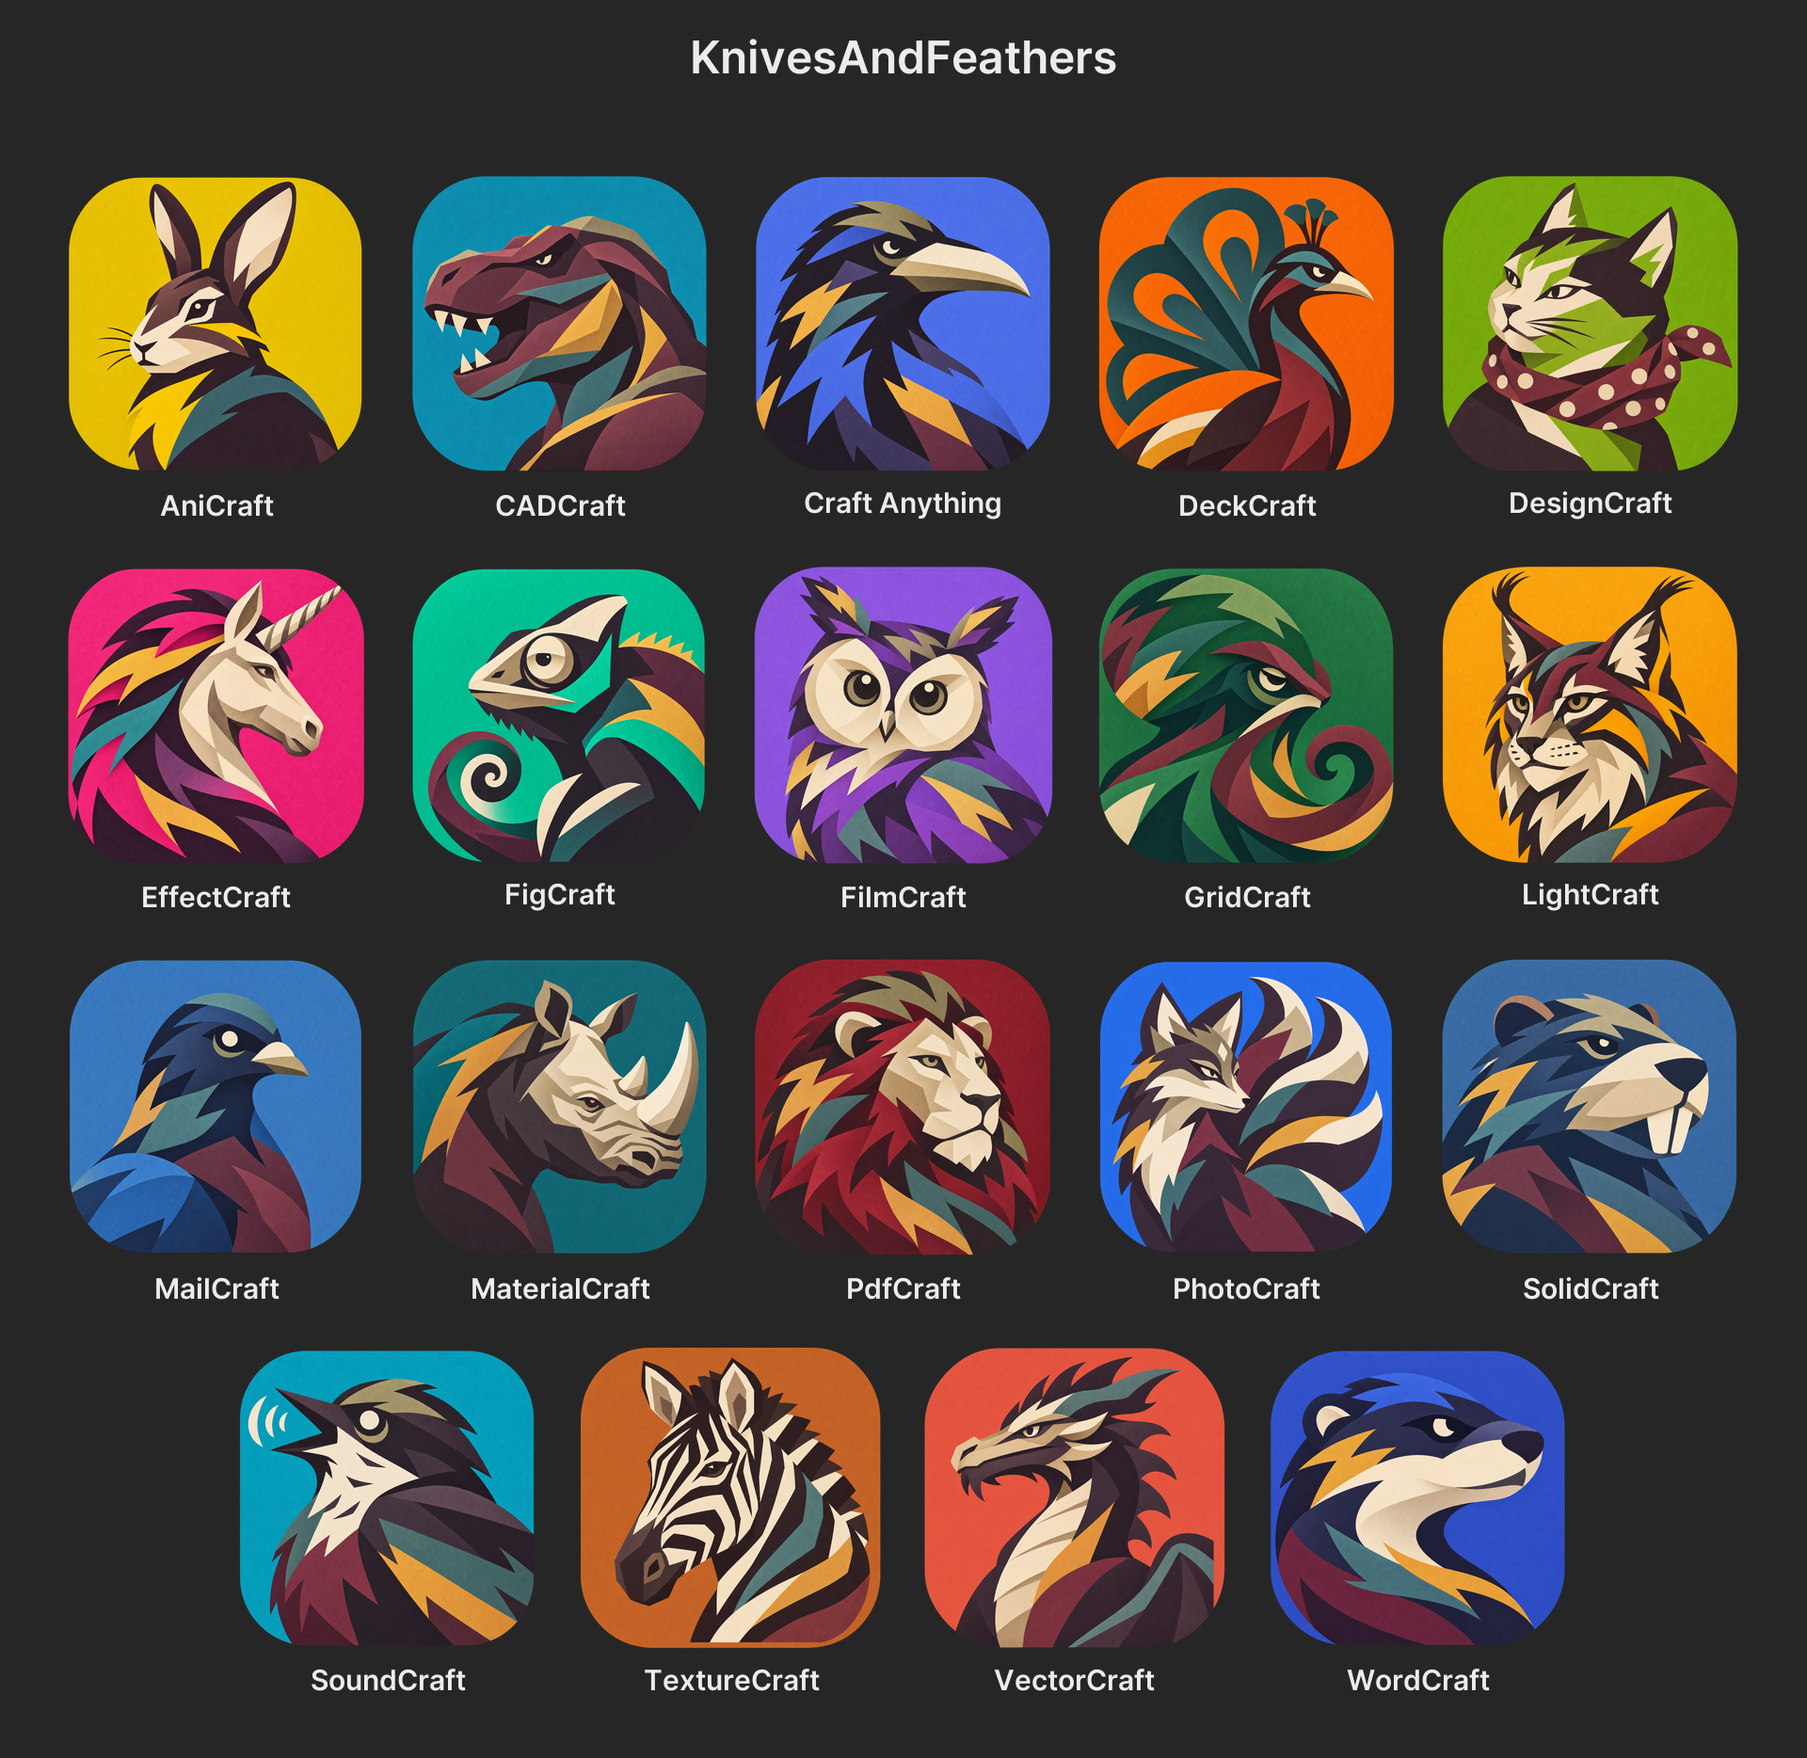
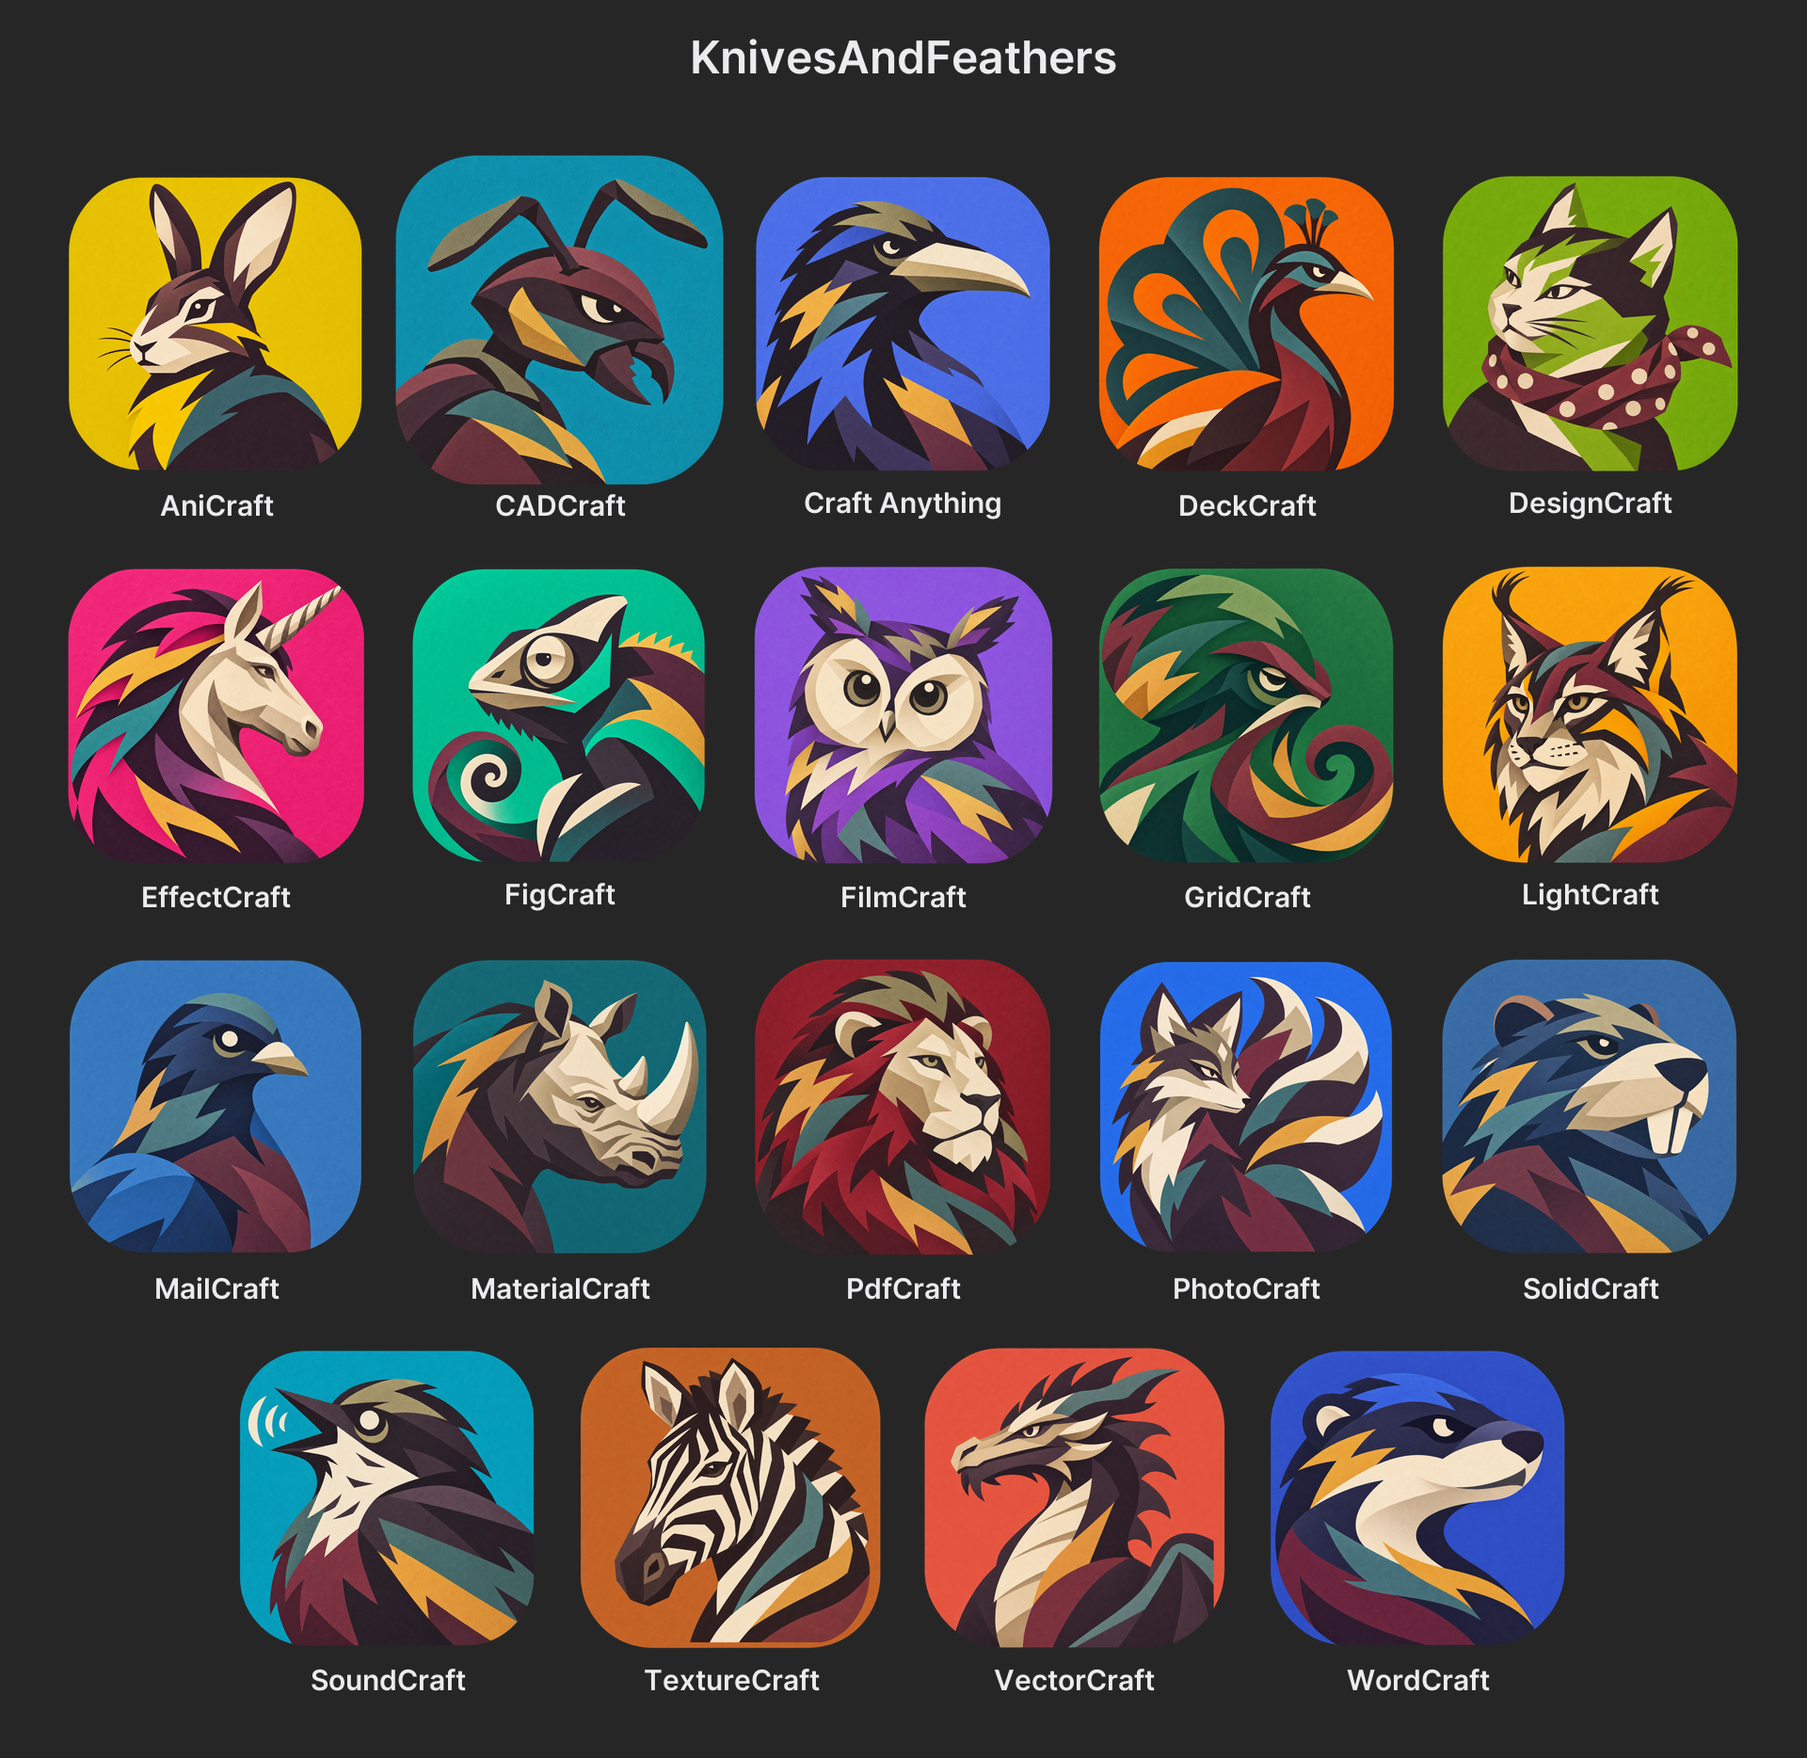
Refresh CADCraft ants and curate seven approved OmegaDarling packs

Changed region(s): [[0.2188, 0.0621, 0.4062, 0.2794]]

diff --git a/Windows/Test-TrayUI.cs b/Windows/Test-TrayUI.cs
@@ -56,7 +56,7 @@ static class TrayTests
         Func<string, object> field = name => typeof(LauncherForm).GetField(name, instance).GetValue(form);
         ComboBox themes = (ComboBox)field("themes"); Catalog catalog = (Catalog)field("catalog");
         Preferences preferences = (Preferences)field("preferences"); PackLibrary library = (PackLibrary)field("library");
-        ThemeEntry basis = themes.Items.Cast<ThemeEntry>().First(theme => theme.Id == "Craft-Icons-Zach/Satin");
+        ThemeEntry basis = themes.Items.Cast<ThemeEntry>().First(theme => theme.Id == "Craft-Icons-Zach/HyGel");
         string previousTheme = preferences.Theme; string[] previousDefaults = preferences.DefaultShortcuts;
         MethodInfo reload = typeof(LauncherForm).GetMethod("ReloadLibrary", instance), change = typeof(LauncherForm).GetMethod("ChangeAppIcon", instance);
         string png = Path.Combine(root, "context-choice.png"), other = Path.Combine(root, "context-other.png");
@@ -408,7 +408,7 @@ static class TrayTests
         ContextMenuStrip menu = (ContextMenuStrip)field("managePackMenu");
         PackLibrary library = (PackLibrary)field("library");
         ThemeEntry[] bundled = (ThemeEntry[])field("bundledThemes");
-        ThemeEntry themed = themes.Items.Cast<ThemeEntry>().First(t => t.Id == "Craft-Icons-Zach/Satin");
+        ThemeEntry themed = themes.Items.Cast<ThemeEntry>().First(t => t.Id == "Craft-Icons-Zach/HyGel");
         string original = Path.Combine(root, "original-red.png"), current = Path.Combine(root, "current-blue.png");
         using (Bitmap image = new Bitmap(32, 32)) {
             using (Graphics canvas = Graphics.FromImage(image)) canvas.Clear(Color.Red);
@@ -505,7 +505,7 @@ static class TrayTests
             }
         }
 
-        Check(json.Deserialize<Preferences>("{\"Theme\":\"Craft-Icons-Zach/Satin\"}").DefaultShortcuts.Length == 0,
+        Check(json.Deserialize<Preferences>("{\"Theme\":\"Craft-Icons-Zach/HyGel\"}").DefaultShortcuts.Length == 0,
             "Older preferences migrate without inventing per-shortcut default overrides");
         call("RememberRestoredShortcuts", new object[] { new[] {
             new ResultItem { Shortcut = photo, Status = "Restored" },
@@ -545,12 +545,12 @@ static class TrayTests
         byte[] originalPhoto = File.ReadAllBytes(photo), originalFilm = File.ReadAllBytes(film);
         FixtureConfig fixture = new FixtureConfig { ShortcutDirectory = new[] { links }, StateDirectory = state, KeepOpenForAutomation = true };
         WorkerClient worker = new WorkerClient(source, fixture);
-        WorkerReply plan = worker.Run(new WorkerRequest { Action = "Preview", Scope = "CurrentUser", Theme = "Craft-Icons-Zach/Satin" }, false).GetAwaiter().GetResult();
-        WorkerReply applied = worker.Run(new WorkerRequest { Action = "Apply", Scope = "CurrentUser", Theme = "Craft-Icons-Zach/Satin", ExpectedPlan = plan.Plan }, false).GetAwaiter().GetResult();
+        WorkerReply plan = worker.Run(new WorkerRequest { Action = "Preview", Scope = "CurrentUser", Theme = "Craft-Icons-Zach/HyGel" }, false).GetAwaiter().GetResult();
+        WorkerReply applied = worker.Run(new WorkerRequest { Action = "Apply", Scope = "CurrentUser", Theme = "Craft-Icons-Zach/HyGel", ExpectedPlan = plan.Plan }, false).GetAwaiter().GetResult();
         Check(applied.Results.Length == 2 && applied.Results.All(result => result.Status == "Applied"), "Context-menu integration prepares two isolated themed shortcuts");
         byte[] themedFilm = File.ReadAllBytes(film);
         string preferencesPath = Path.Combine(state, "tray-preferences.json");
-        File.WriteAllText(preferencesPath, json.Serialize(new Preferences { Theme = "Craft-Icons-Zach/Satin", Scope = "AllUsers", Hotkey = new HotkeySettings { Enabled = false } }));
+        File.WriteAllText(preferencesPath, json.Serialize(new Preferences { Theme = "Craft-Icons-Zach/HyGel", Scope = "AllUsers", Hotkey = new HotkeySettings { Enabled = false } }));
         using (EventWaitHandle show = new EventWaitHandle(false, EventResetMode.AutoReset))
         using (EventWaitHandle stop = new EventWaitHandle(false, EventResetMode.AutoReset))
         using (LauncherForm form = new LauncherForm(source, fixture, true, show, stop))
@@ -660,14 +660,14 @@ static class TrayTests
             File.WriteAllText(Path.Combine(workerState, "manifest.json"), "{\"Product\":\"BetterIcon-Craft Apps Windows\",\"SchemaVersion\":1,\"Version\":\"1.1.0\",\"Scope\":\"CurrentUser\",\"Entries\":[]}");
             WorkerClient client = new WorkerClient(args[1], new FixtureConfig { ShortcutDirectory = new[] { root }, StateDirectory = workerState });
             WorkerReply catalog = client.Run(new WorkerRequest { Action = "Catalog", Scope = "CurrentUser" }, false).GetAwaiter().GetResult();
-            Check(catalog.Success && catalog.Catalog.Themes.Length == 18 && catalog.Catalog.Apps.Length == 1 && catalog.Catalog.Apps[0].Application == "PhotoCraft", "Native process invokes the catalog worker with a real fixture shortcut");
+            Check(catalog.Success && catalog.Catalog.Themes.Length == 13 && catalog.Catalog.Apps.Length == 1 && catalog.Catalog.Apps[0].Application == "PhotoCraft", "Native process invokes the catalog worker with a real fixture shortcut");
             WorkerReply preview = client.Run(new WorkerRequest { Action = "RestorePreview", Scope = "CurrentUser" }, false).GetAwaiter().GetResult();
             Check(preview.Success && preview.StateHash.Length == 64 && preview.Results.Length == 0, "Native restore worker hashes an existing manifest with inherited module paths");
             PackTests.Run(root, args[1], catalog.Catalog, Check);
 
             string state = Path.Combine(root, "state"), preferencesPath = Path.Combine(state, "tray-preferences.json");
             Directory.CreateDirectory(state);
-            File.WriteAllText(preferencesPath, json.Serialize(new Preferences { Theme = "Craft-Icons-Zach/Satin", Scope = "CurrentUser", IconSize = 72, Hotkey = new HotkeySettings { Enabled = false } }));
+            File.WriteAllText(preferencesPath, json.Serialize(new Preferences { Theme = "Craft-Icons-Zach/HyGel", Scope = "CurrentUser", IconSize = 72, Hotkey = new HotkeySettings { Enabled = false } }));
             using (EventWaitHandle show = new EventWaitHandle(false, EventResetMode.AutoReset))
             using (EventWaitHandle stop = new EventWaitHandle(false, EventResetMode.AutoReset))
             using (LauncherForm form = new LauncherForm(args[1], new FixtureConfig { ShortcutDirectory = new[] { root }, StateDirectory = Path.Combine(root, "state"), KeepOpenForAutomation = true }, true, show, stop))
@@ -762,7 +762,7 @@ static class TrayTests
                         pages.SelectedIndex = 1; slider.Value = 64;
                         Check(list.Items.Count == 2 && list.AccessibleDescription.Contains("Filter: f.") && list.SelectedItems.Count == 1 && list.SelectedItems[0].Text == "FilmCraft", "Icon resizing preserves the active filter and selected app");
                         Preferences sized = json.Deserialize<Preferences>(File.ReadAllText(preferencesPath));
-                        Check(sized.IconSize == 64 && sized.Theme == "Craft-Icons-Zach/Satin" && sized.Scope == "CurrentUser" && !sized.Hotkey.Enabled, "Icon size persists without changing theme, scope, or hotkey preferences");
+                        Check(sized.IconSize == 64 && sized.Theme == "Craft-Icons-Zach/HyGel" && sized.Scope == "CurrentUser" && !sized.Hotkey.Enabled, "Icon size persists without changing theme, scope, or hotkey preferences");
                         ((Button)typeof(LauncherForm).GetField("resetIconSize", BindingFlags.Instance | BindingFlags.NonPublic).GetValue(form)).PerformClick();
                         Check(launcherImages.ImageSize == new Size(48, 48) && previewImages.ImageSize == launcherImages.ImageSize && list.Items[1].Bounds.Left - list.Items[0].Bounds.Left < 200 && json.Deserialize<Preferences>(File.ReadAllText(preferencesPath)).IconSize == 48, "Reset restores and saves compact 48-pixel icons in both grids");
                         pages.SelectedIndex = 0;

diff --git a/Windows/Test-Packs.cs b/Windows/Test-Packs.cs
@@ -17,8 +17,8 @@ static class PackTests
         string state = Path.Combine(root, "pack-tests-state"); Directory.CreateDirectory(state);
         PackLibrary library = new PackLibrary(Path.Combine(state, "packs"));
         ThemeEntry[] omega = catalog.Themes.Where(t => t.Pack == "Craft-Icons-Zach").ToArray();
-        check(omega.Length == 12 && omega.All(t => t.Author == "OmegaDarling" && t.ToString().Contains("OmegaDarling") && t.Id.StartsWith("Craft-Icons-Zach/")), "OmegaDarling credits are public while existing pack IDs stay stable");
-        check(catalog.Themes.Length == 18 && catalog.Themes.Sum(t => t.IconCount) == 313 && !catalog.Themes.Any(t => t.Name == "OilSlick"), "Oil Slick is retired from the 18-theme, 313-icon catalog");
+        check(omega.Length == 7 && omega.All(t => t.Author == "OmegaDarling" && t.ToString().Contains("OmegaDarling") && t.Id.StartsWith("Craft-Icons-Zach/")), "OmegaDarling credits are public while existing pack IDs stay stable");
+        check(catalog.Themes.Length == 13 && catalog.Themes.Sum(t => t.IconCount) == 218 && !catalog.Themes.Any(t => new[] { "OilSlick", "Satin", "Cardstock", "Paperflow", "Softform", "Counterform" }.Contains(t.Name)), "The 13-theme, 218-icon catalog excludes all six retired OmegaDarling styles");
         check(catalog.Themes.SelectMany(t => t.Icons).All(icon => !String.IsNullOrEmpty(icon.PreviewPath) && Path.GetExtension(icon.PreviewPath).Equals(".png", StringComparison.OrdinalIgnoreCase) && File.Exists(icon.PreviewPath))
             && catalog.Themes.All(theme => { using (Image image = Image.FromFile(theme.Icons[0].PreviewPath)) return Math.Max(image.Width, image.Height) > 256; }),
             "The catalog retains original high-resolution PNG previews alongside native shortcut artwork");

diff --git a/Craft-Icons-OmegaDarling/README.md b/Craft-Icons-OmegaDarling/README.md
@@ -1,21 +1,32 @@
 # OmegaDarling icon themes
 
+Seven approved themes with 19 Craft app icons each (133 icons total).
+
+## Portrait themes
+
+| Theme | App icons | Example sheet |
+| --- | --- | --- |
+| [Cardboard](Cardboard/) | 19 | [Preview](8.%20Cardboard.png) |
+| [HyGel](HyGel/) | 19 | [Preview](1.%20HyGel.png) |
+| [Irridiant](Irridiant/) | 19 | [Preview](2.%20Irridiant.png) |
+| [KnivesAndFeathers](KnivesAndFeathers/) | 19 | [Preview](5.%20KnivesAndFeathers.png) |
+| [NegativeSpace](NegativeSpace/) | 19 | [Preview](7.%20NegativeSpace.png) |
+
 ## Graphic Evolution
 
-Five graphic animal themes with reduced palettes and transparent backgrounds:
+Two graphic animal themes with reduced palettes and transparent backgrounds:
 
 | Theme | Style | App icons | Example sheet |
 | --- | --- | --- | --- |
-| [Paperflow](Paperflow/) | Broad, flowing paper shapes | 19 | [Preview](Paperflow.png) |
-| [Softform](Softform/) | Rounded, interlocking forms | 19 | [Preview](Softform.png) |
 | [Edgework](Edgework/) | Bold, angular planes | 19 | [Preview](Edgework.png) |
-| [Counterform](Counterform/) | Strong silhouettes and negative space | 19 | [Preview](Counterform.png) |
 | [Foldmark](Foldmark/) | Folded bands and flowing emblems | 19 | [Preview](Foldmark.png) |
 
-Each theme includes the latest approved 1254×1254 PNG artwork for all 19 Craft apps, including the current edited colors. CADCraft uses the ant mascot, named `cadcraft.png`. The other files follow the existing app-name convention, including `PhotoCraft.png` and `Craft Anything.png`.
+Each theme includes the latest approved full-resolution PNG artwork for all 19 Craft apps, including the current edited colors. CADCraft uses the ant mascot in every theme, named `cadcraft.png`. The other files follow the existing app-name convention, including `PhotoCraft.png` and `Craft Anything.png`.
 
 Each example sheet shows all 19 current icons with app labels and the style name on a dark gray background. The sheets are previews; individual icons are in their matching theme folders.
 
 Select these themes from the normal Linux installer or Windows icon-pack list. Windows builds generate the shortcut ICOs from the PNGs and retain the original PNGs for larger previews.
+
+Cardstock, Satin, OilSlick, Paperflow, Softform and Counterform are retired from this collection. Historical artwork remains available in Git history.
 
 Artwork by **OmegaDarling**, distributed under the repository's [MIT license](../LICENSE).

diff --git a/Windows/WINDOWS.md b/Windows/WINDOWS.md
@@ -79,7 +79,7 @@ Open PowerShell in the **Windows** subfolder. `Install-Windows.cmd` and `Restore
 
 # Apply, with a preview and a confirmation prompt.
 .\install.ps1 -Theme Cardboard
-.\install.ps1 -Theme 'Craft-Icons-Zach/Satin' -Scope AllUsers
+.\install.ps1 -Theme 'Craft-Icons-OmegaDarling/HyGel' -Scope AllUsers
 
 # Restore original shortcuts. User edits made since installation are preserved.
 .\uninstall.ps1 -WhatIf
@@ -95,7 +95,7 @@ Use reasonably short folder paths. This version requires shortcut and installed 
 
 ## Themes and matching
 
-All **18 current themes** are available: twelve by **OmegaDarling**, five in **Craft-Icons-Komplett**, and the root theme in **Craft-Icons-circleb**. The current collection supplies **313 app icons**, including the five [Graphic Evolution themes](../Craft-Icons-OmegaDarling/README.md). Oil Slick is retired and is excluded from the repository's current artwork, app catalog, and new Windows packages.
+All **13 current themes** are available: seven by **OmegaDarling**, five in **Craft-Icons-Komplett**, and the root theme in **Craft-Icons-circleb**. The current collection supplies **218 app icons**, including the two [Graphic Evolution themes](../Craft-Icons-OmegaDarling/README.md#graphic-evolution), Edgework and Foldmark. Cardstock, Satin, OilSlick, Paperflow, Softform and Counterform are retired and are excluded from the repository's current artwork, app catalog, and new Windows packages.
 
 The shared artwork is stored in `Craft-Icons-OmegaDarling`. The public author credit is **OmegaDarling** in the app and command-line theme listing.
 

diff --git a/README.md b/README.md
@@ -11,7 +11,7 @@ Icon installers for [Artcraft](https://getartcraft.com/) applications. The Linux
 - **Clear Status Log:** Visual table showing which apps are ready, missing icons, or not installed.
 - **Windows Support:** A tray popup for installed apps, PNG/ICO theme previews, separate current-user/all-users scopes, and original-shortcut restoration.
 
-The themes in [Craft-Icons-OmegaDarling](Craft-Icons-OmegaDarling/) are by **OmegaDarling**. The collection includes five Graphic Evolution themes—**Paperflow**, **Softform**, **Edgework**, **Counterform**, and **Foldmark**—with 19 approved app icons each.
+The seven themes in [Craft-Icons-OmegaDarling](Craft-Icons-OmegaDarling/) are by **OmegaDarling**: **Cardboard**, **HyGel**, **Irridiant**, **KnivesAndFeathers**, **NegativeSpace**, **Edgework**, and **Foldmark**. Each contains 19 current approved app icons, including the CADCraft ant as `cadcraft.png`, and has an example sheet.
 
 ## Supported Applications
 
